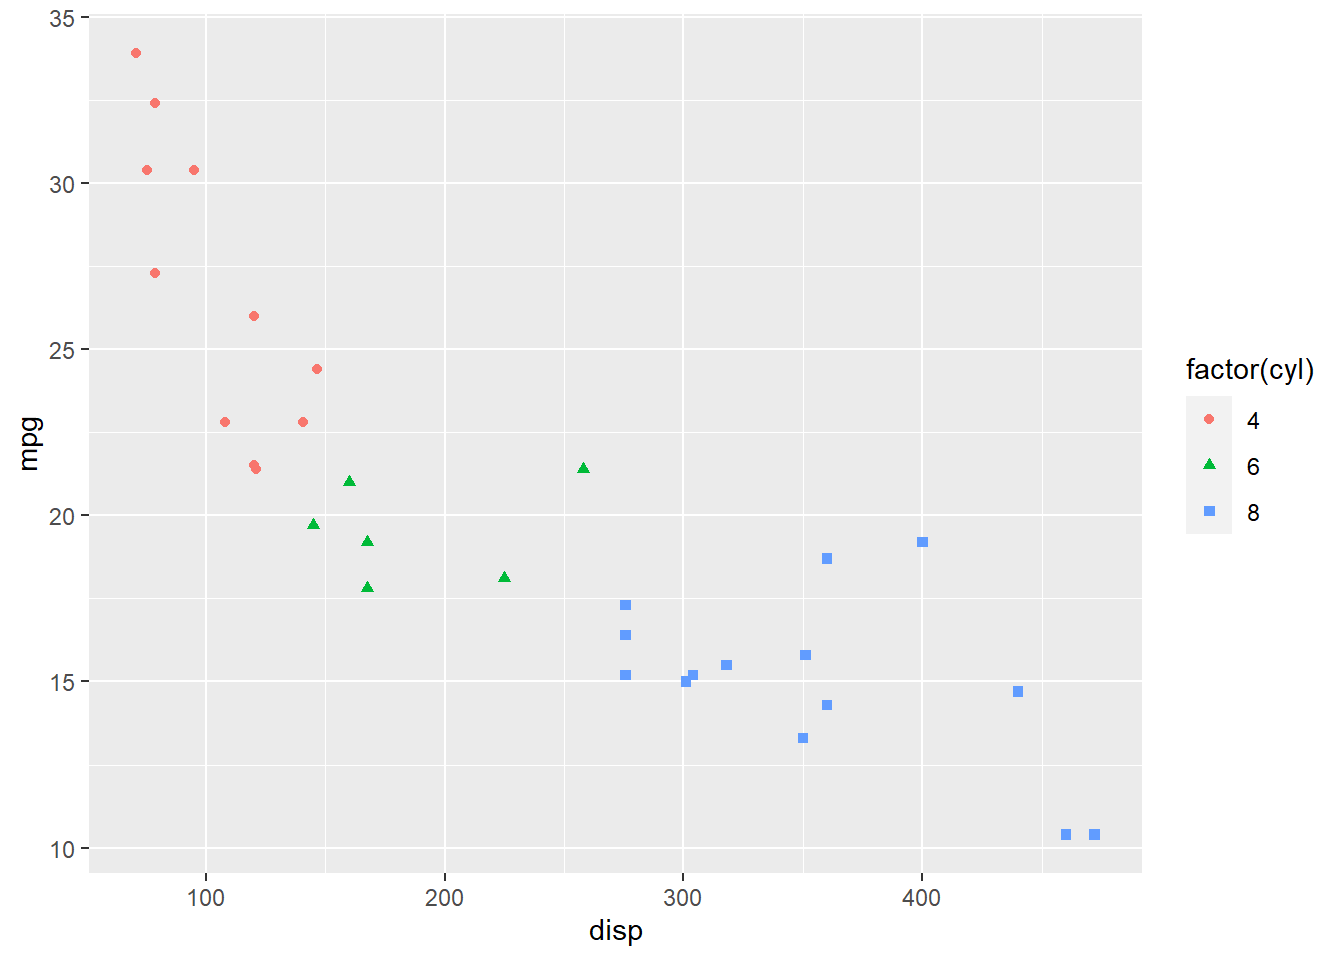
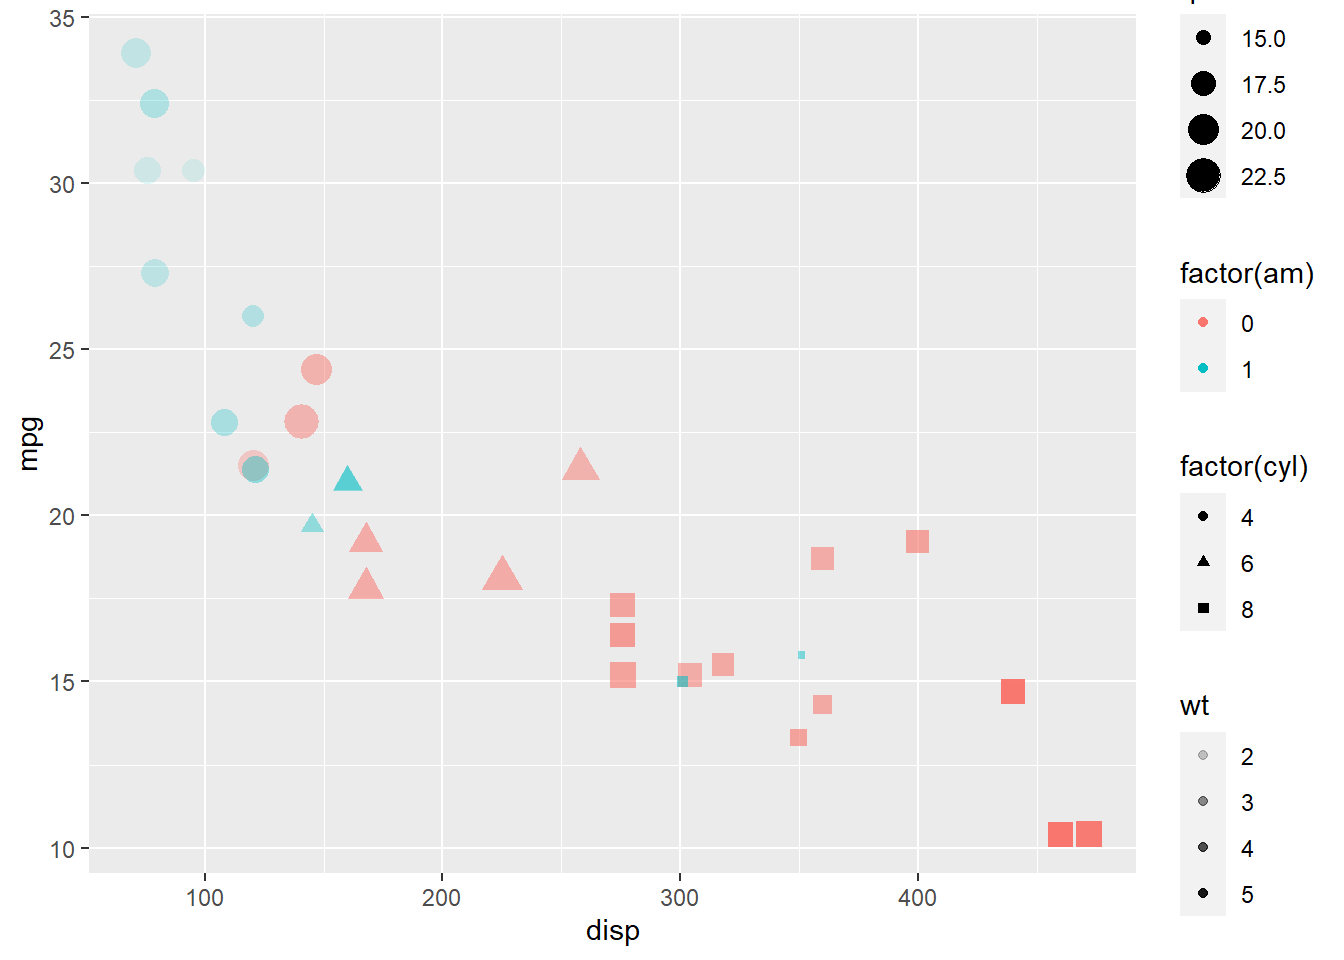
ggplot

diff --git a/intro_qqplot.html b/intro_qqplot.html
@@ -138,10 +138,12 @@ pre > code.sourceCode > span > a:first-child::before { text-decoration: underlin
 <span id="cb6-2"><a href="#cb6-2" aria-hidden="true" tabindex="-1"></a>  <span class="fu">geom_point</span>(</span>
 <span id="cb6-3"><a href="#cb6-3" aria-hidden="true" tabindex="-1"></a>    <span class="at">mapping =</span> <span class="fu">aes</span>(<span class="at">x =</span> disp, <span class="at">y =</span> mpg,</span>
 <span id="cb6-4"><a href="#cb6-4" aria-hidden="true" tabindex="-1"></a>                  <span class="at">shape =</span> <span class="fu">factor</span>(cyl),</span>
-<span id="cb6-5"><a href="#cb6-5" aria-hidden="true" tabindex="-1"></a>                  <span class="at">colour =</span> <span class="fu">factor</span>(cyl)</span>
-<span id="cb6-6"><a href="#cb6-6" aria-hidden="true" tabindex="-1"></a>                  ),</span>
-<span id="cb6-7"><a href="#cb6-7" aria-hidden="true" tabindex="-1"></a>    <span class="at">data =</span> mtcars</span>
-<span id="cb6-8"><a href="#cb6-8" aria-hidden="true" tabindex="-1"></a>  )</span></code><button title="Copy to Clipboard" class="code-copy-button"><i class="bi"></i></button></pre></div>
+<span id="cb6-5"><a href="#cb6-5" aria-hidden="true" tabindex="-1"></a>                  <span class="at">colour =</span> <span class="fu">factor</span>(am),</span>
+<span id="cb6-6"><a href="#cb6-6" aria-hidden="true" tabindex="-1"></a>                  <span class="at">size =</span> qsec,</span>
+<span id="cb6-7"><a href="#cb6-7" aria-hidden="true" tabindex="-1"></a>                  <span class="at">alpha =</span> wt</span>
+<span id="cb6-8"><a href="#cb6-8" aria-hidden="true" tabindex="-1"></a>                  ),</span>
+<span id="cb6-9"><a href="#cb6-9" aria-hidden="true" tabindex="-1"></a>    <span class="at">data =</span> mtcars</span>
+<span id="cb6-10"><a href="#cb6-10" aria-hidden="true" tabindex="-1"></a>  )</span></code><button title="Copy to Clipboard" class="code-copy-button"><i class="bi"></i></button></pre></div>
 <div class="cell-output-display">
 <p><img src="intro_qqplot_files/figure-html/unnamed-chunk-6-1.png" class="img-fluid" width="672"></p>
 </div>
